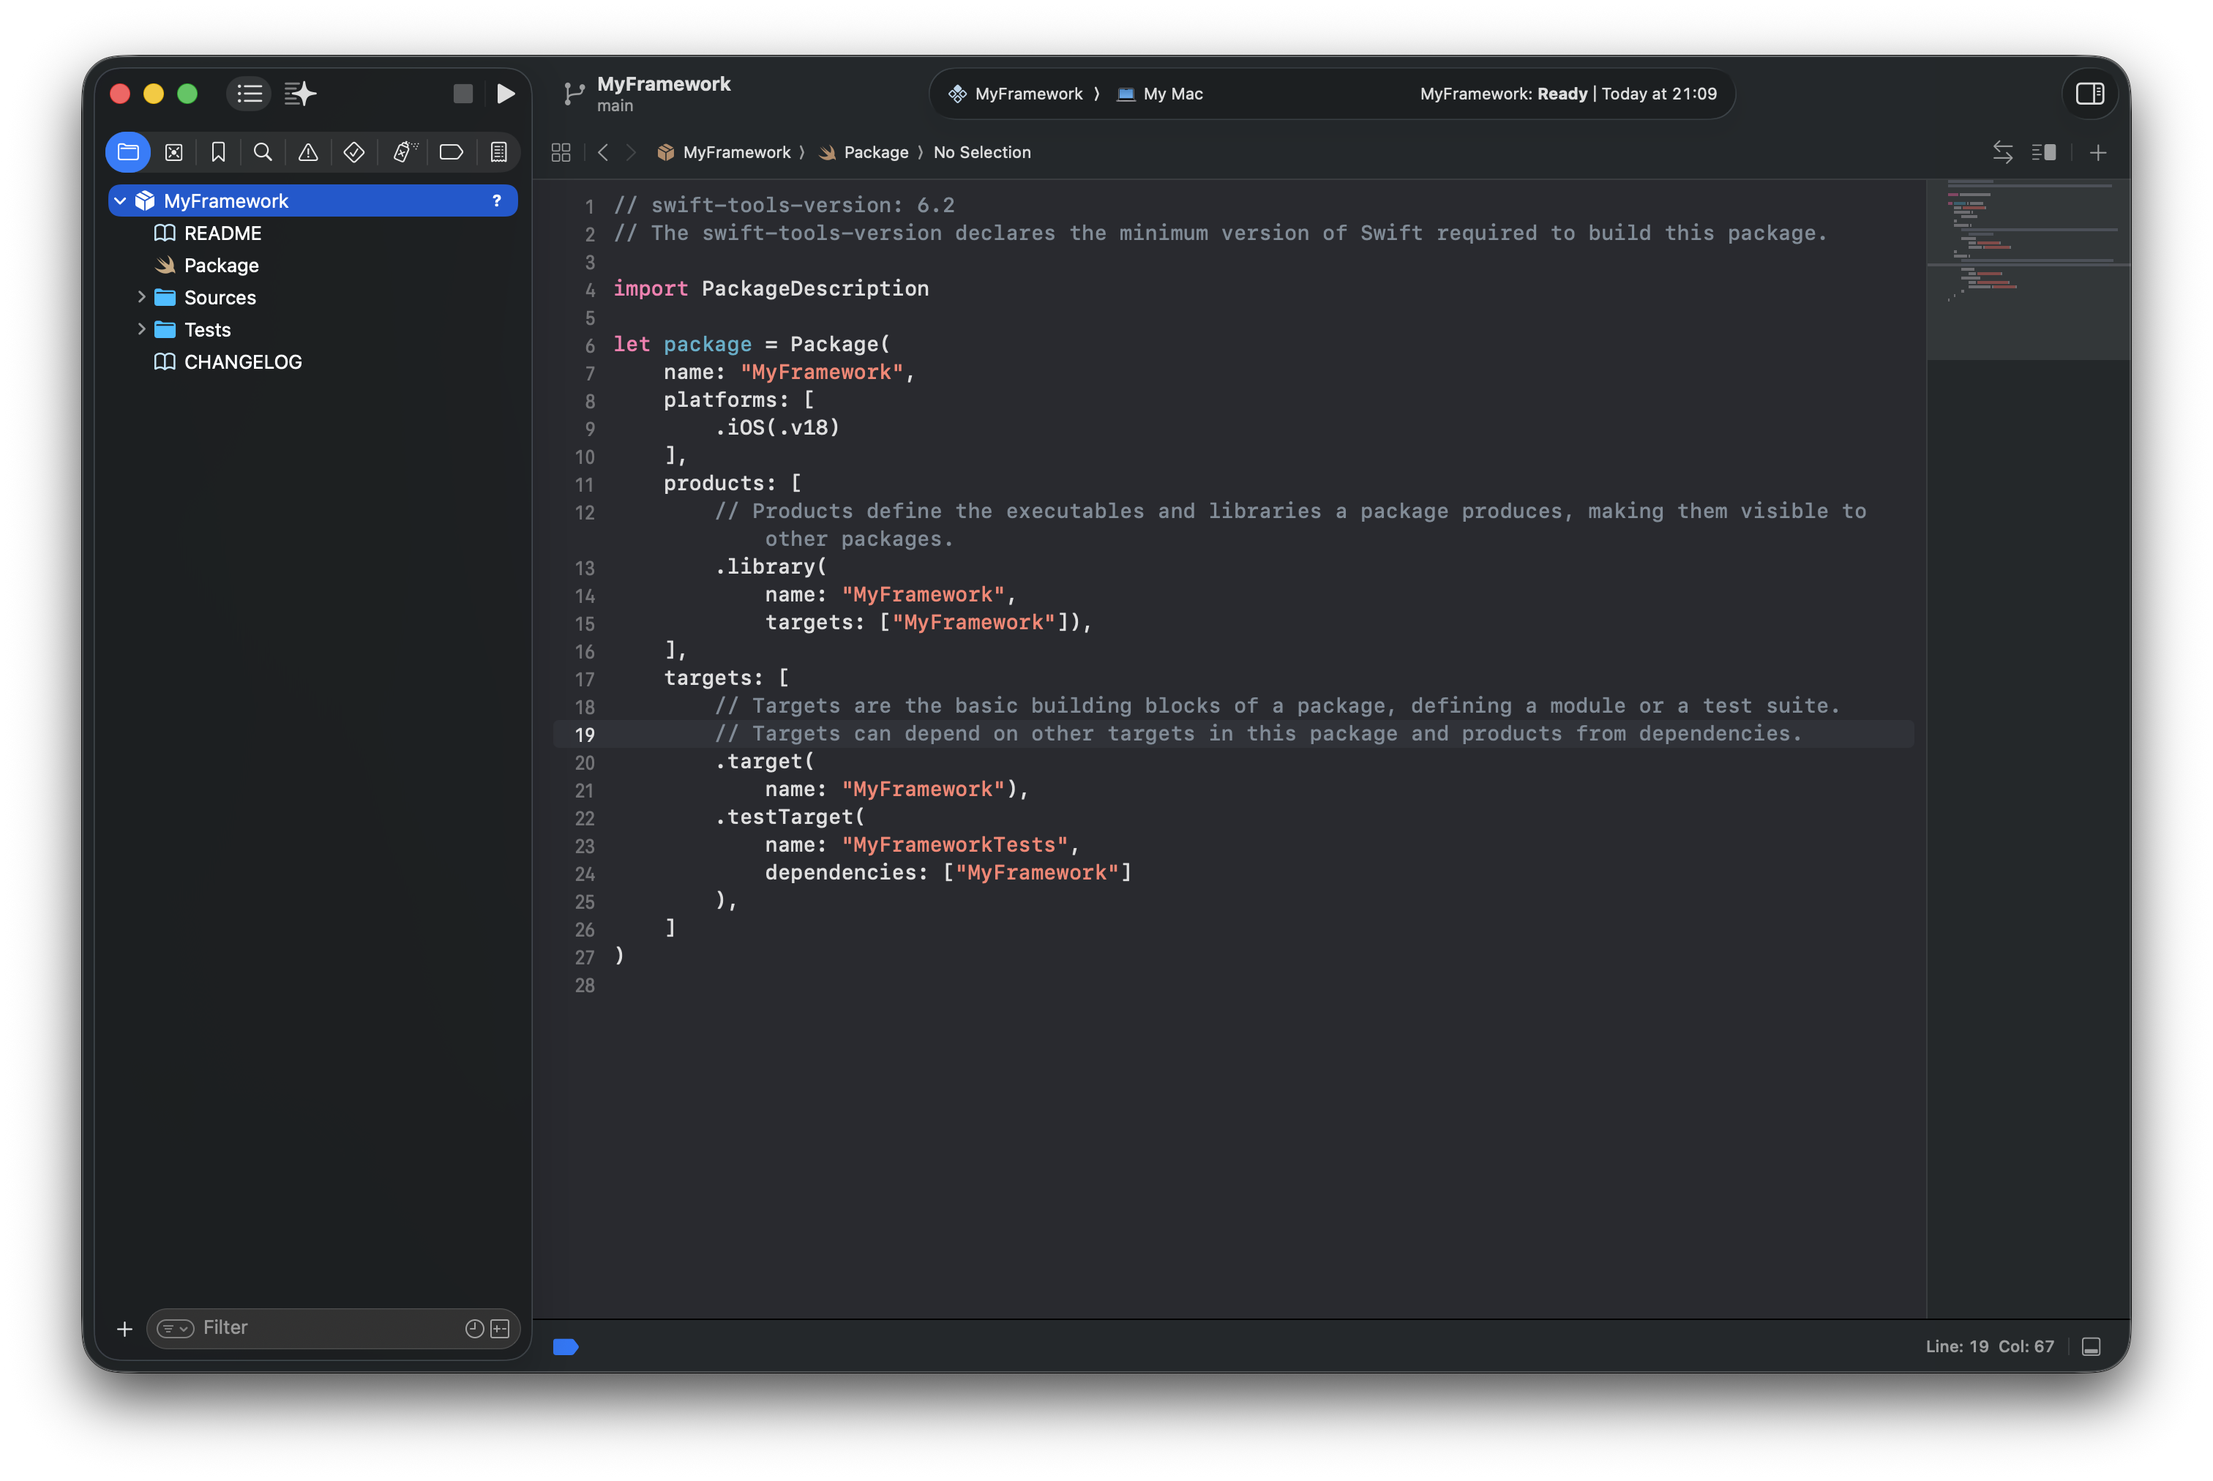
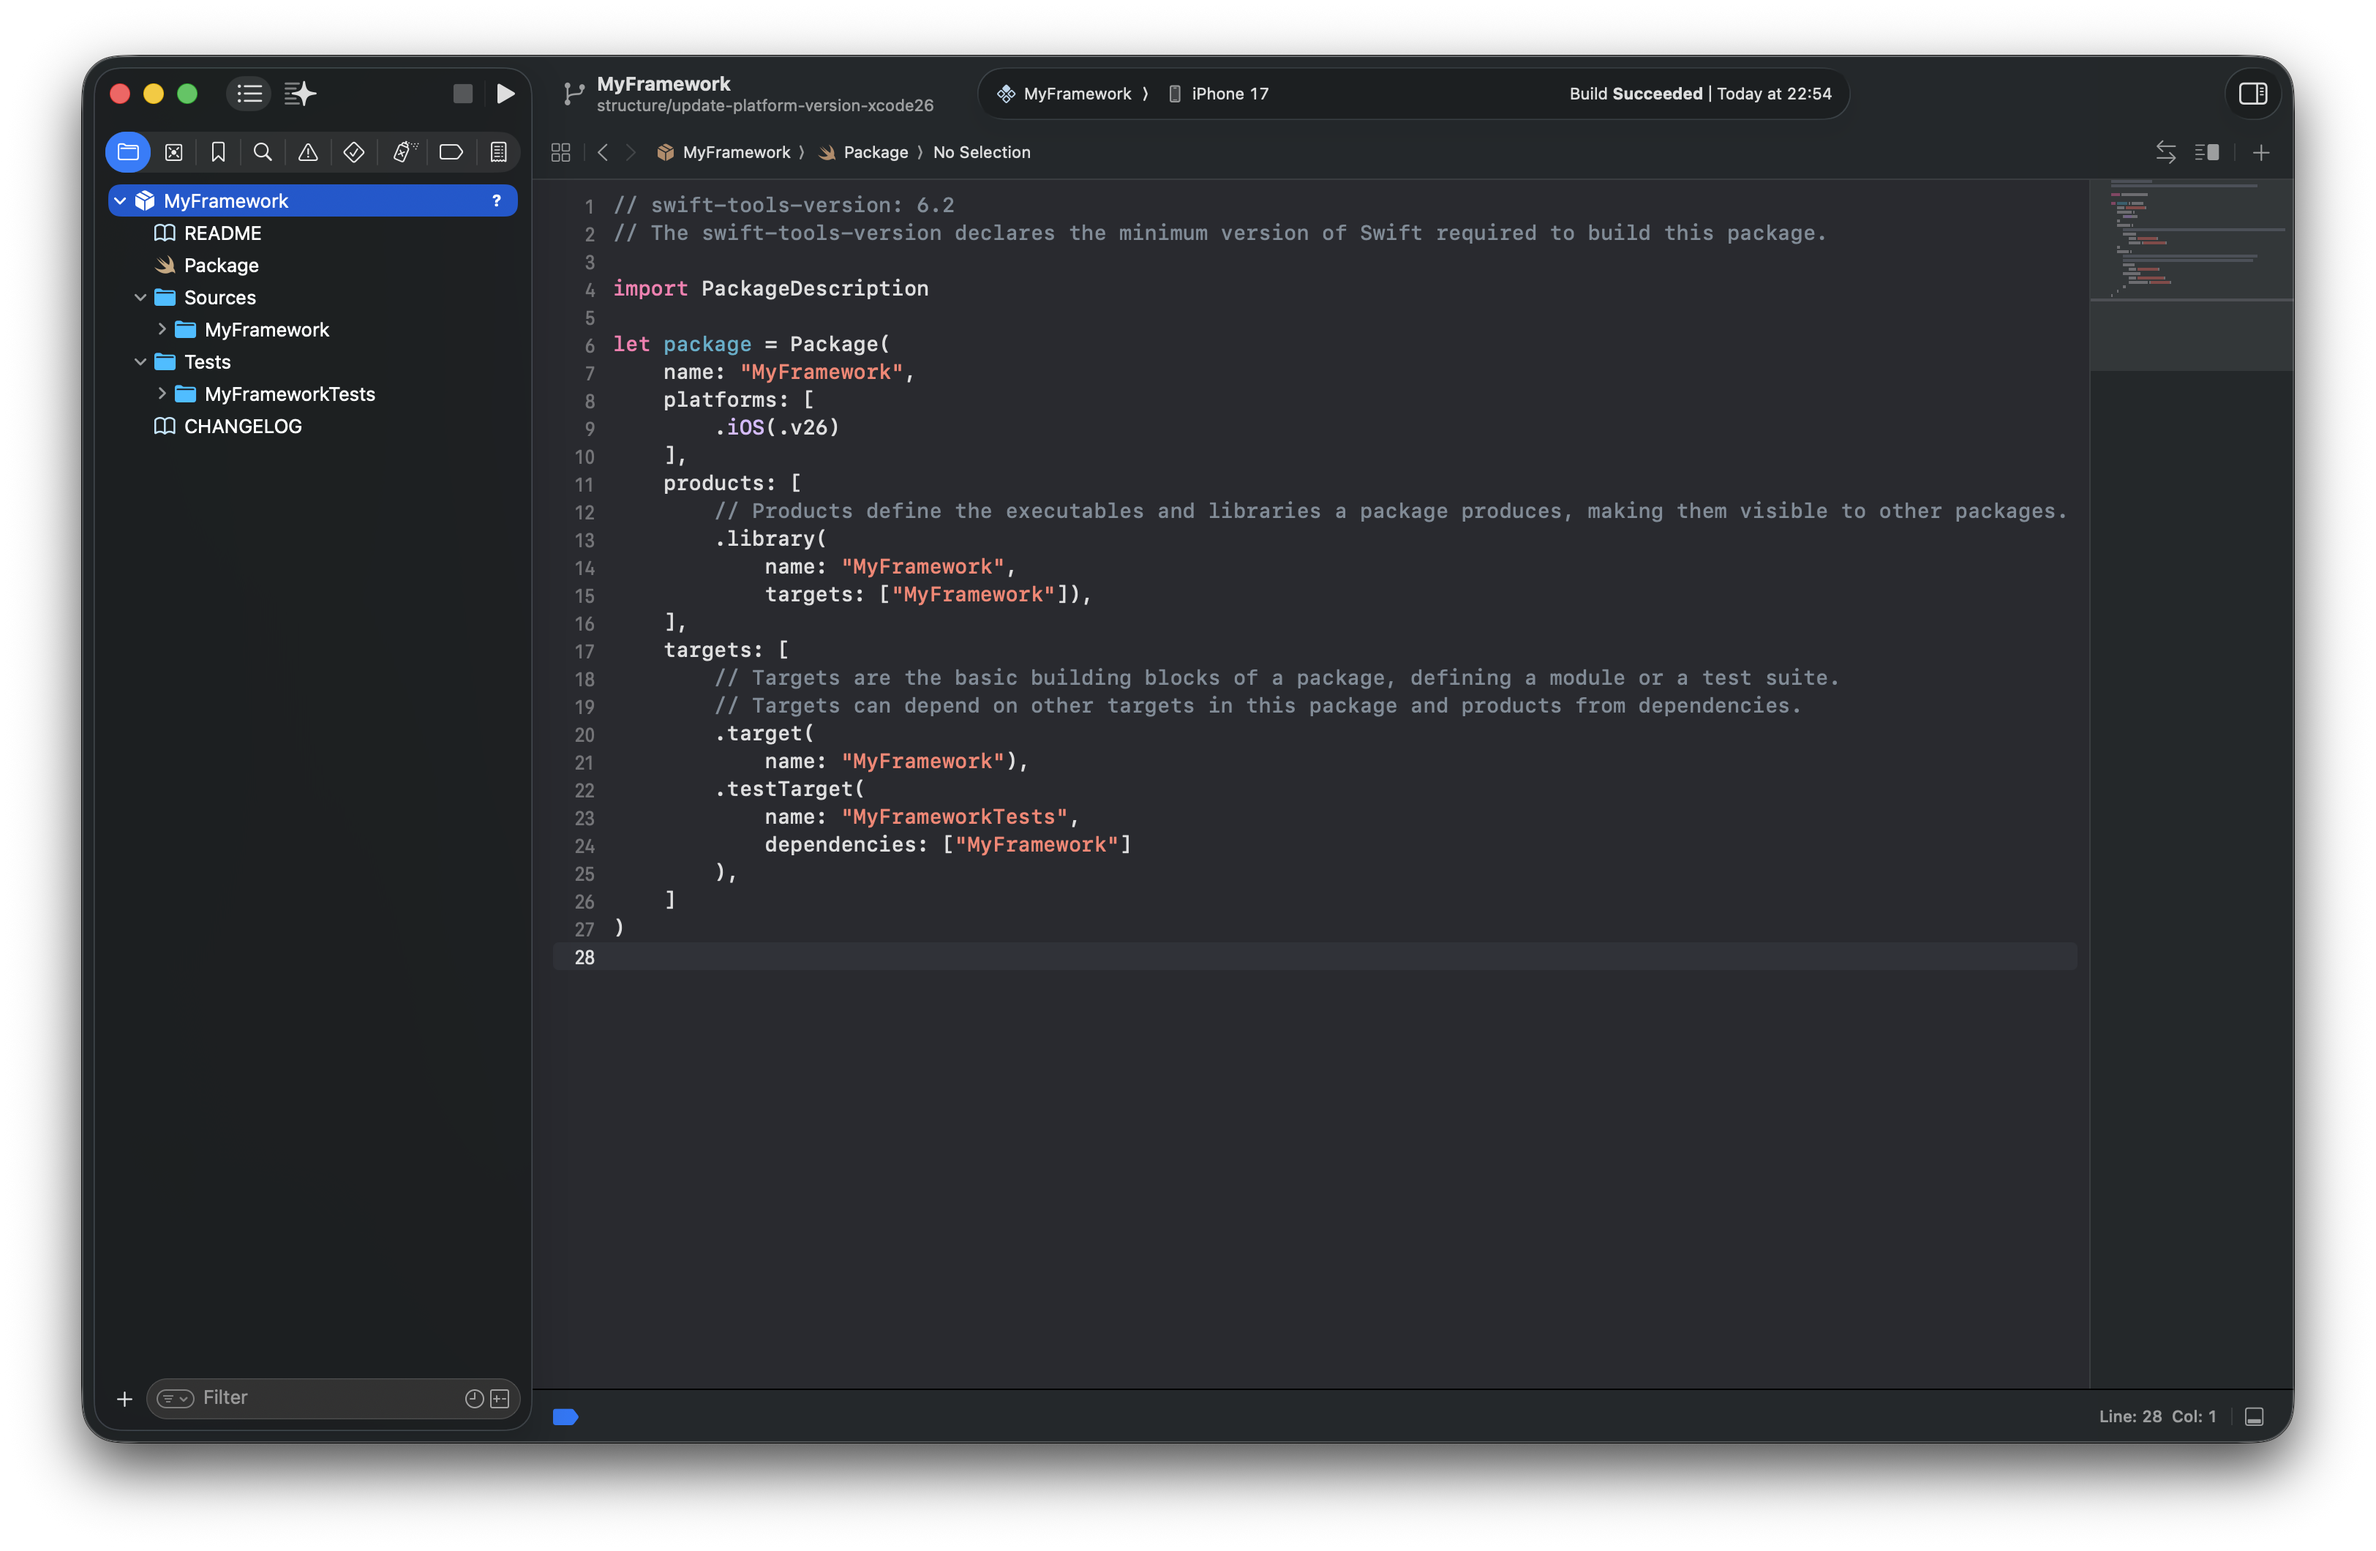
refactor: update platform versions to Xcode 26 (#151)

Changed region(s): [[0.0311, 0.0311, 0.9636, 0.9338], [0.2176, 0.5914, 0.2487, 0.6225]]

diff --git a/src/domain/platform/platform_validator.rs b/src/domain/platform/platform_validator.rs
@@ -6,11 +6,11 @@ pub struct PlatformValidator;
 impl PlatformValidator {
 	pub fn generate_platform(project_name: &str, platform: Vec<&str>) {
 		let platforms = HashMap::from([
-			("iOS", "18"),
-			("macOS", "15"),
-			("watchOS", "11"),
-			("tvOS", "18"),
-			("visionOS", "2"),
+			("iOS", "26"),
+			("macOS", "26"),
+			("watchOS", "26"),
+			("tvOS", "26"),
+			("visionOS", "26"),
 		]);
 
 		for (key, version) in platforms {
